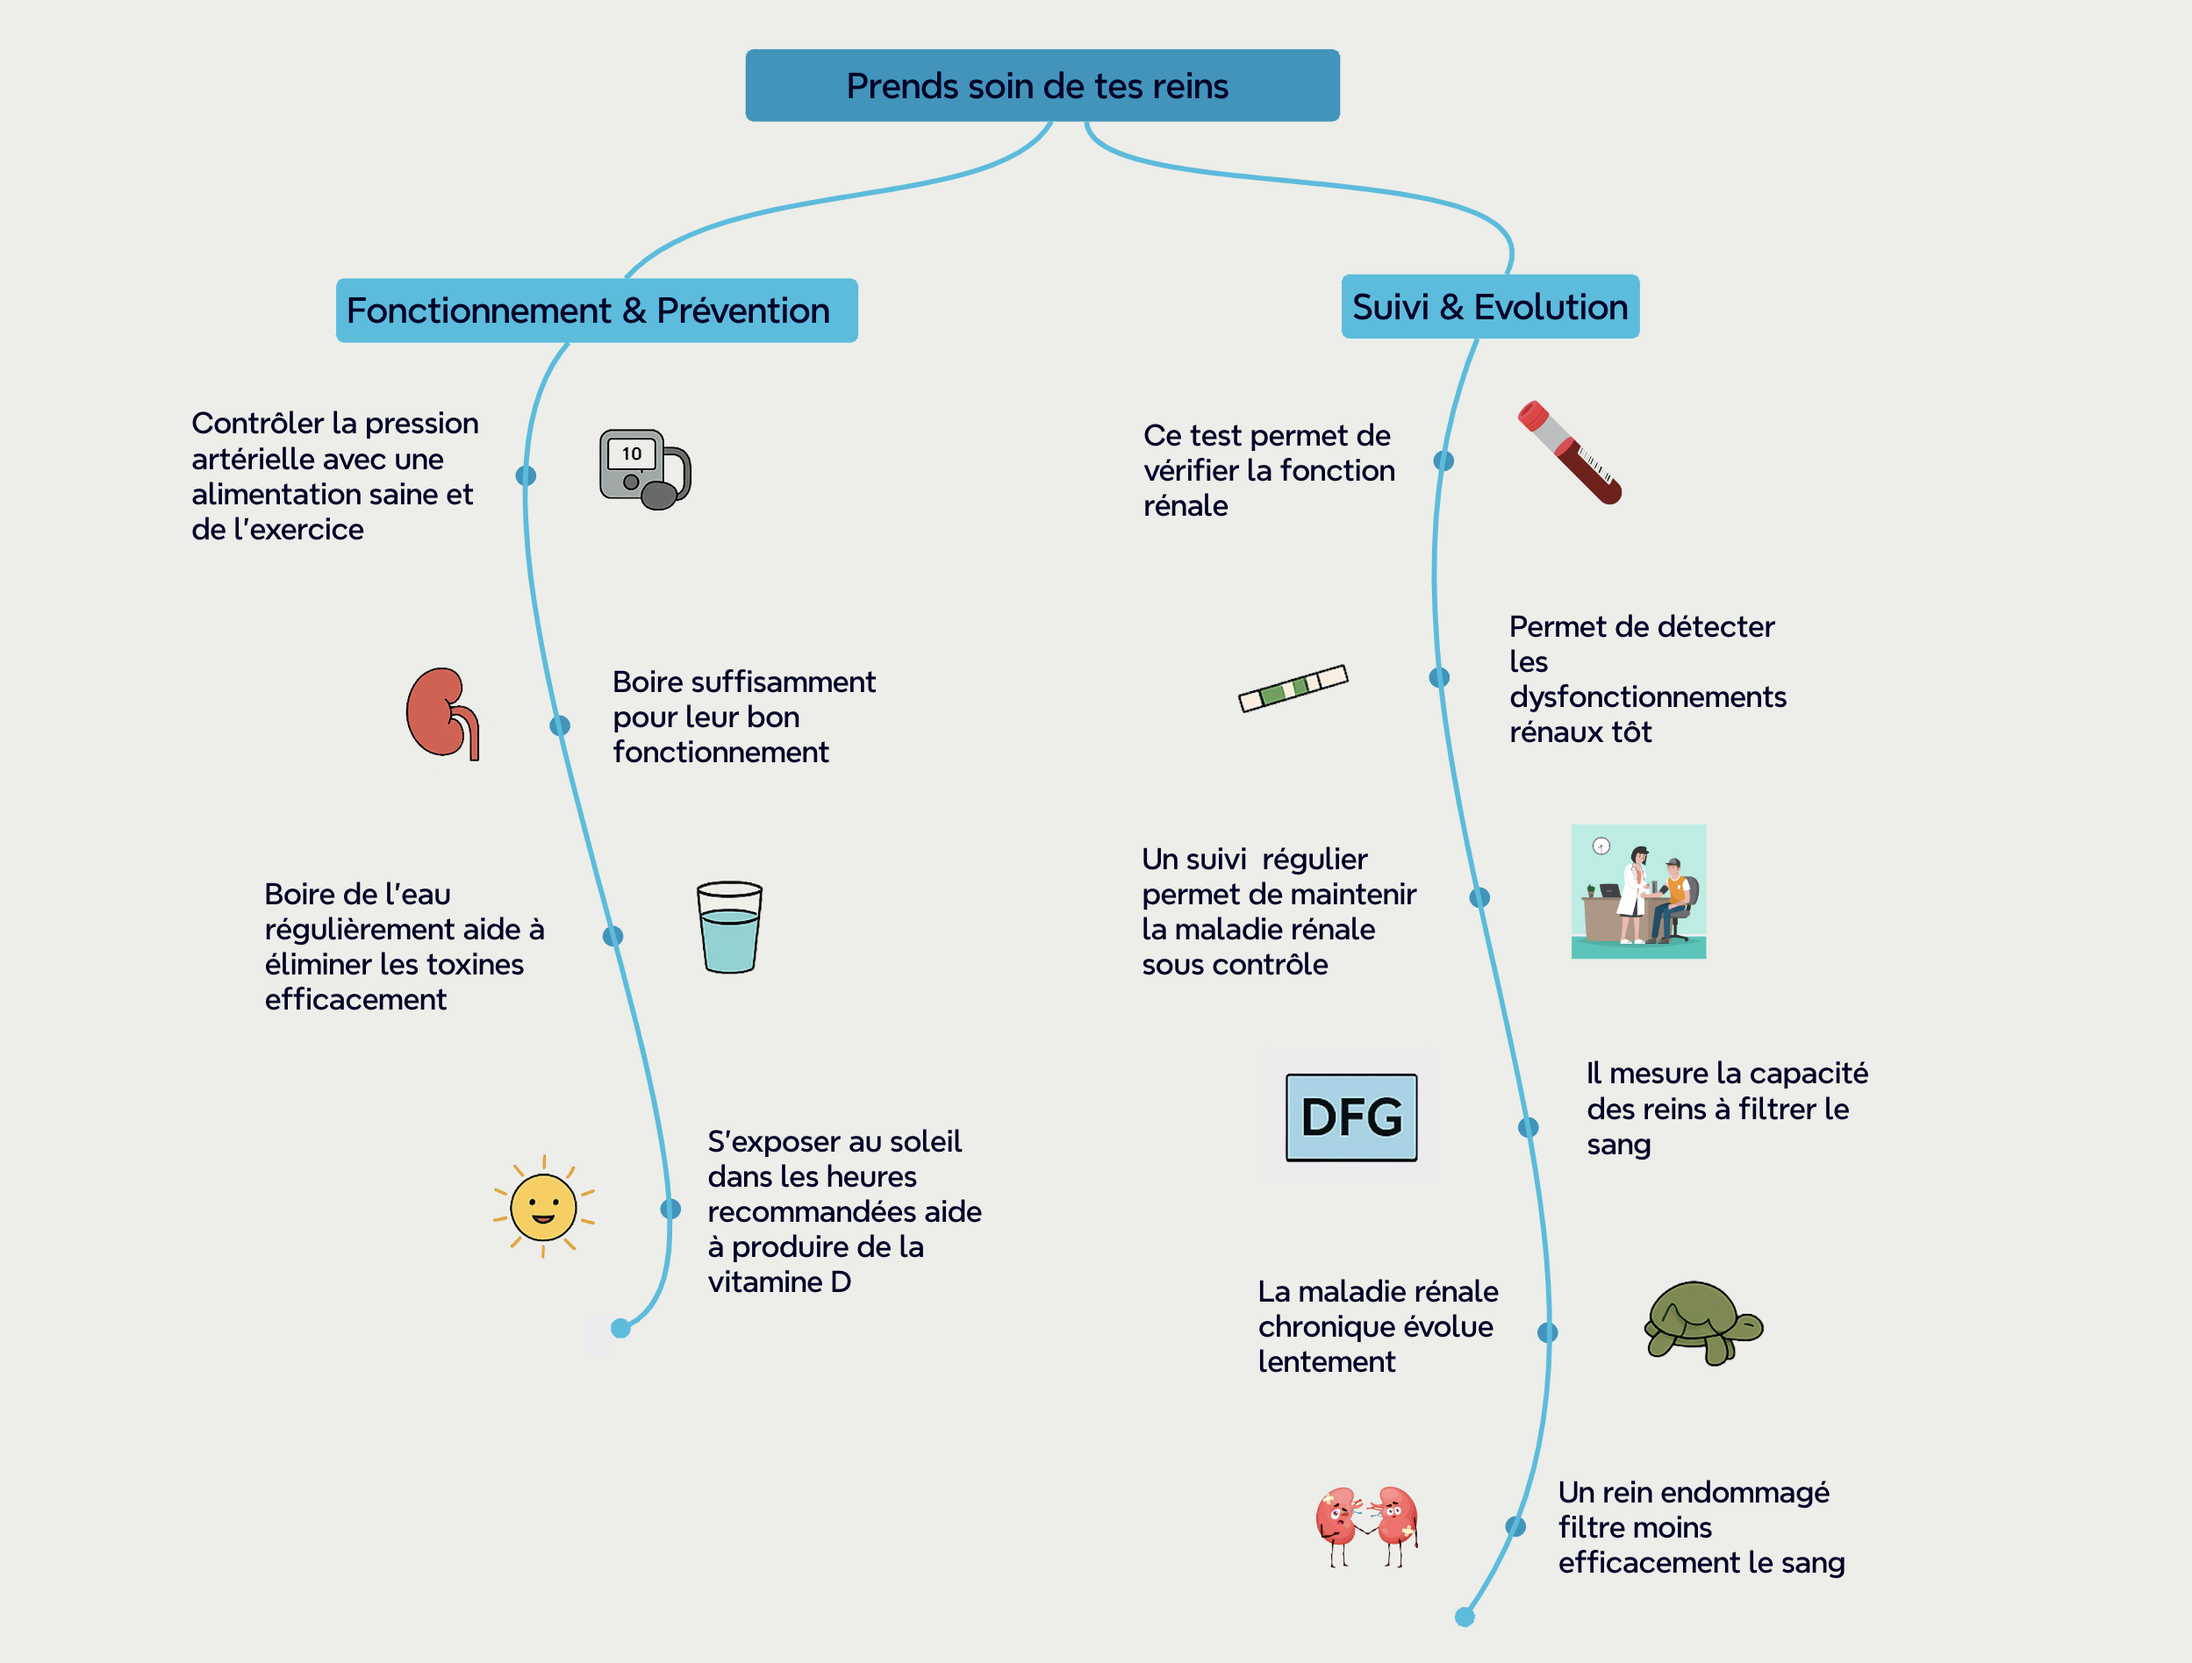
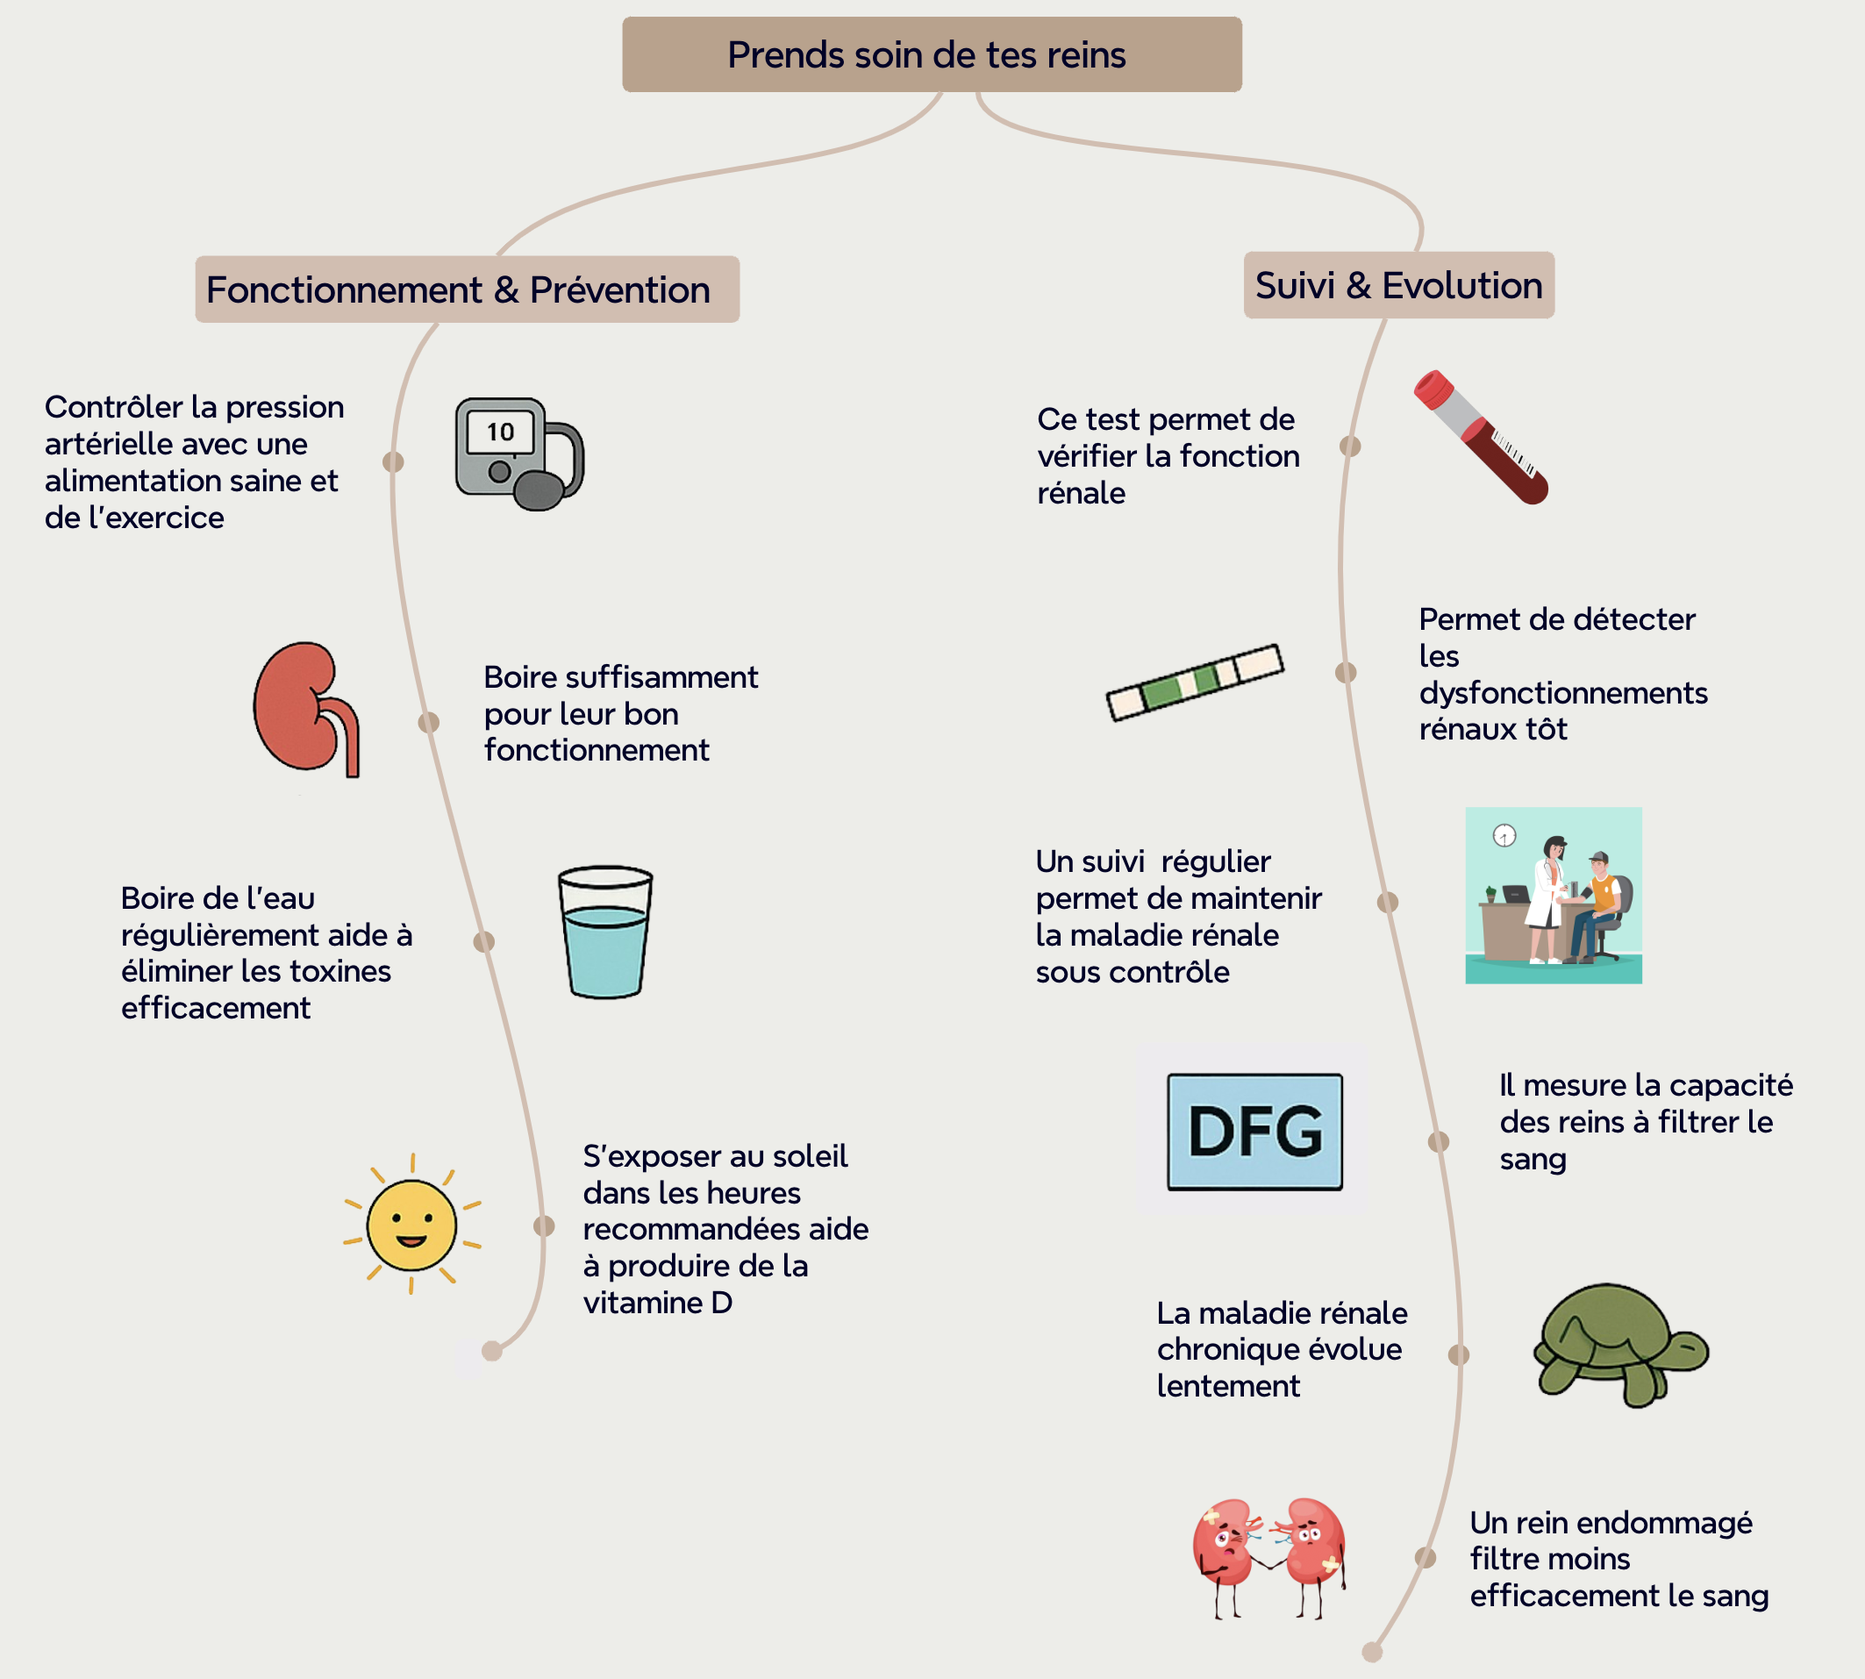
ok

diff --git a/styles/rein3.css b/styles/rein3.css
@@ -13,13 +13,13 @@ body {
 }
 
 .container {
-    position: relative; /* 👈 ajoute ceci */
+    position: relative; 
     max-width: 1000px;
     margin: 40px auto;
     padding: 20px;
-    background: #fff;
+    background: transparent;
     border-radius: 10px;
-    box-shadow: 0 0 10px rgba(0, 0, 0, 0.1);
+    
 }
 
 h1 {
@@ -47,7 +47,16 @@ p {
 .column h2 {
     text-align: center;
     margin-bottom: 15px;
+    color: #4a536b;
+    text-decoration: underline;
 }
+
+.container h1 {
+    text-align: center;
+    margin-bottom: 15px;
+    color: #4a536b;
+}
+
 
 .item {
     border: 2px solid #BDA18A;
@@ -185,7 +194,7 @@ button:hover {
     white-space: pre-wrap;
     font-size: 16px;
     line-height: 1.6;
-    color: #333;
+    color: #4a536b;
 }
 
 /* Nouveau style pour les messages d'erreur */
@@ -379,6 +388,11 @@ button:hover {
     align-items: center;           /* centré verticalement */
   
     /*padding-left: 15vw;            /* décale vers la droite */
-    background-color: #fdfaf6;     /* même fond que le reste */
+    background-color: transparent;     /* même fond que le reste */
     z-index: 1000;                 /* au-dessus du reste */
+  }
+
+
+  .container {
+    display: none;
   }

diff --git a/jeux/rein3.html b/jeux/rein3.html
@@ -29,10 +29,12 @@
       <p>Lis bien les définitions et pense à leur lien avec les images.</p> 
       <p>Prêt à relever le défi ? C’est parti !</p>
       <button id="start-liaison-btn">Commencer le jeu</button>
+
+      <a href="../pages/jeux2.html" id="backButton">← Retour au parcours</a>
     </div>
   </div>
   
-  <a href="../pages/jeux2.html" id="backButton">← Retour au parcours</a>
+  
   <div class="container">
     <h1>Jeu de Liaison</h1>
 
@@ -111,6 +113,20 @@ document.addEventListener('DOMContentLoaded', () => {
     // Si tu utilises flexbox pour la classe .game, assure-toi que c'est bien en flex.
   });
 });
+
+document.addEventListener('DOMContentLoaded', () => {
+    const startBtn = document.getElementById('start-liaison-btn');
+    const introWrapper = document.getElementById('intro-wrapper');
+    const container = document.querySelector('.container');
+  
+    startBtn.addEventListener('click', () => {
+      // Cacher l'intro
+      introWrapper.style.display = 'none';
+  
+      // Afficher toute la partie jeu
+      container.style.display = 'block';
+    });
+  });
 
 
     </script>

diff --git a/scripts/rein3.js b/scripts/rein3.js
@@ -345,21 +345,4 @@ function shuffleDefinitions(partClass) {
     definitions.forEach(def => container.appendChild(def));
 }
 
-document.addEventListener("DOMContentLoaded", function () {
-    const startButton = document.getElementById("start-liaison-btn");
-    const introWrapper = document.getElementById("intro-wrapper");
-  
-    if (startButton) {
-      startButton.addEventListener("click", function () {
-        // Cache l'intro
-        introWrapper.style.display = "none";
-  
-        // Affiche le reste du jeu
-        document.querySelector(".container").style.display = "block";
-      });
-    }
-  
-    // Facultatif : cacher le jeu au départ
-    document.querySelector(".container").style.display = "none";
-  });
-  
+
